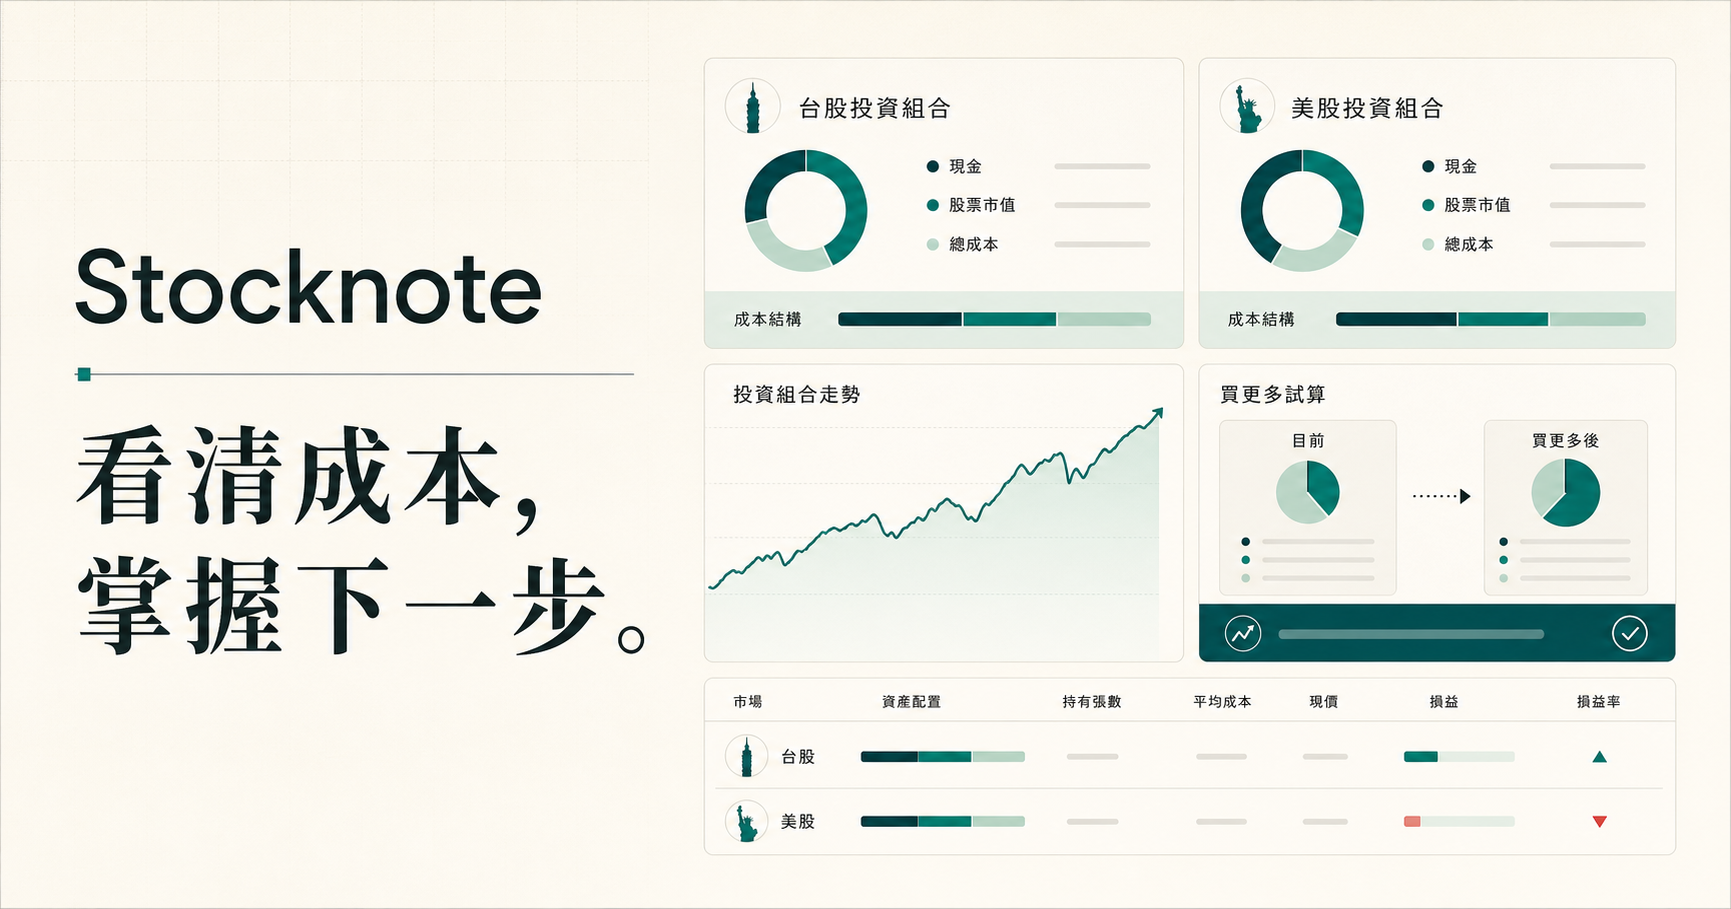
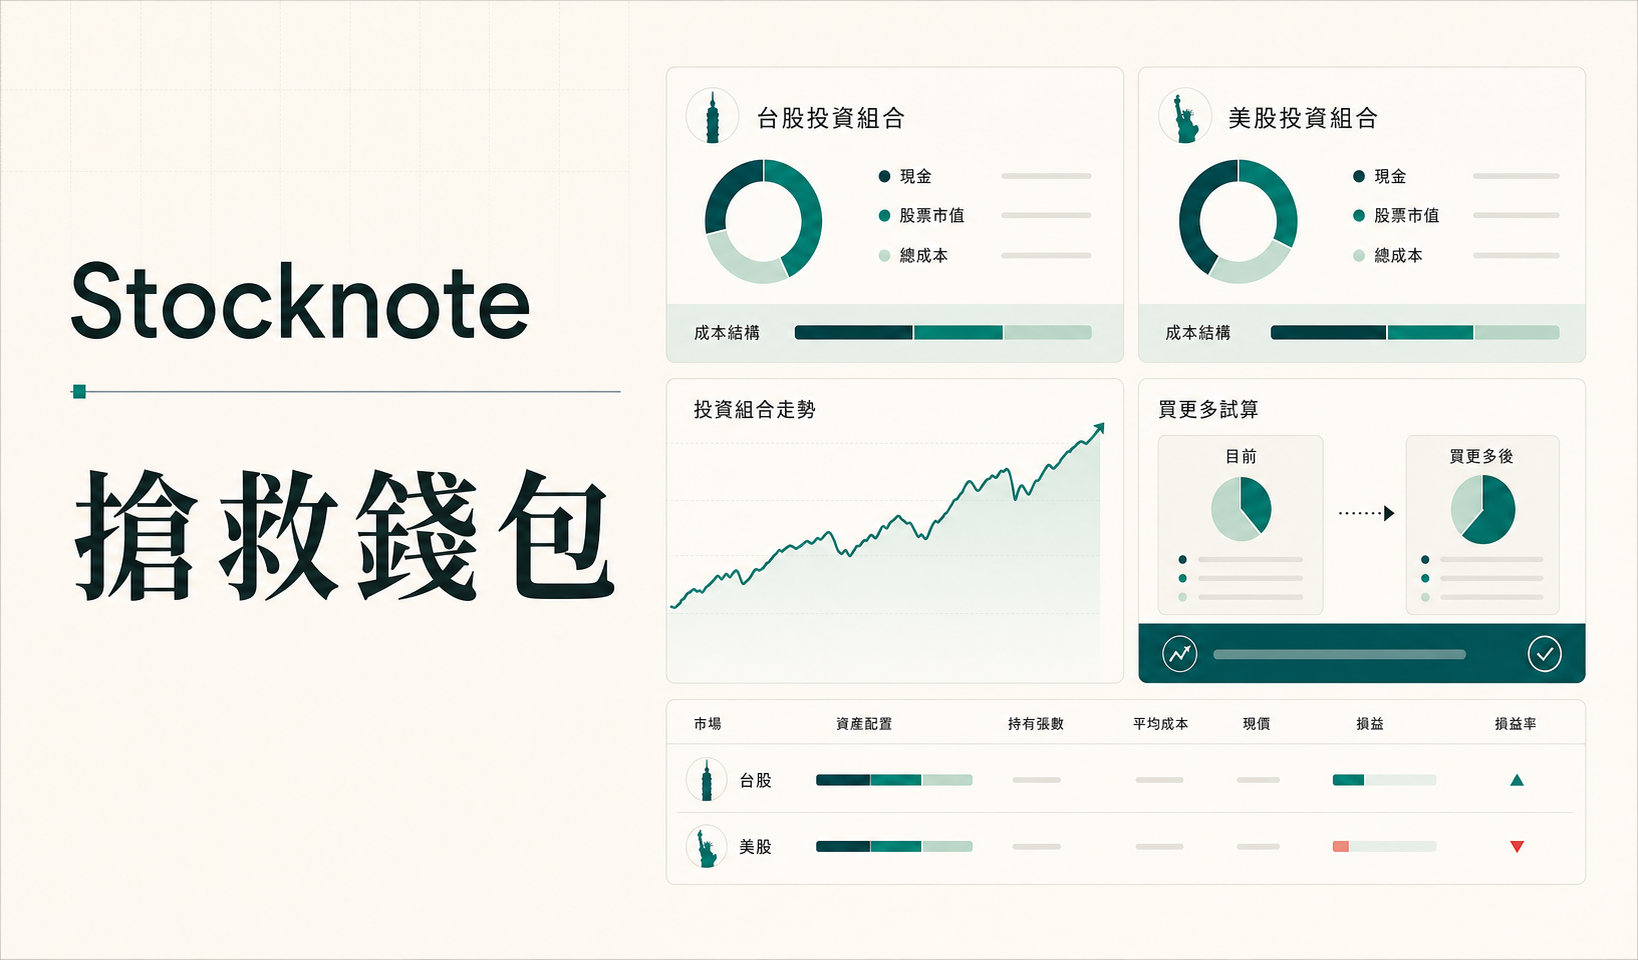
Update social preview branding

diff --git a/app/layout.tsx b/app/layout.tsx
@@ -8,11 +8,11 @@ export async function generateMetadata(): Promise<Metadata> {
   const protocol = headerList.get("x-forwarded-proto") || (host.includes("localhost") ? "http" : "https");
   const image = `${protocol}://${host}/og.png`;
   return {
-    title: "Stocknote｜台美股庫存與加碼試算",
-    description: "追蹤台股與美股庫存，計算即時報酬、平均成本、加碼後成本與目標價預期損益。",
+    title: "Stocknote｜搶救錢包",
+    description: "台股與美股庫存管理，即時報價、加碼試算與目標價損益估算。",
     icons: { icon: "/favicon.svg", shortcut: "/favicon.svg" },
-    openGraph: { title: "Stocknote｜看清成本，掌握下一步。", description: "台美股庫存、加碼與目標價試算工具", images: [{ url: image, width: 1200, height: 630 }] },
-    twitter: { card: "summary_large_image", title: "Stocknote｜看清成本，掌握下一步。", description: "台美股庫存、加碼與目標價試算工具", images: [image] },
+    openGraph: { title: "Stocknote｜搶救錢包", description: "台美股庫存、即時報價、加碼與目標價試算工具", images: [{ url: image, width: 1200, height: 630 }] },
+    twitter: { card: "summary_large_image", title: "Stocknote｜搶救錢包", description: "台美股庫存、即時報價、加碼與目標價試算工具", images: [image] },
   };
 }
 
